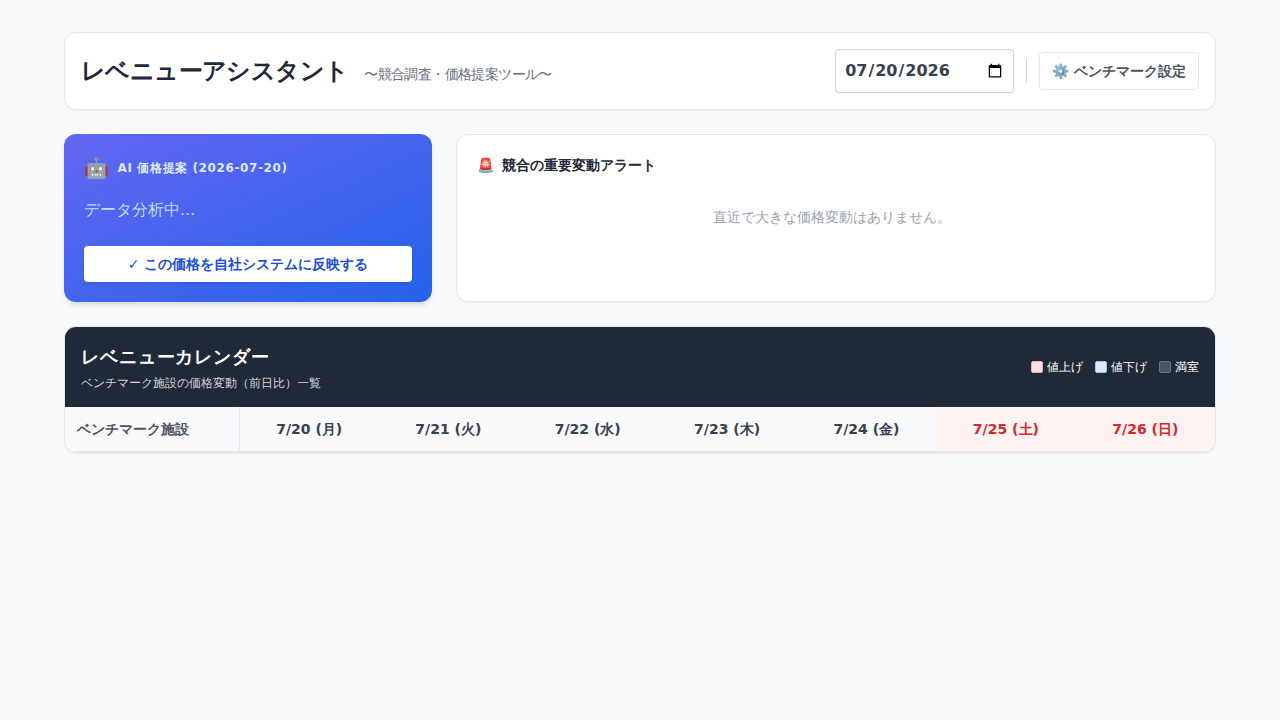
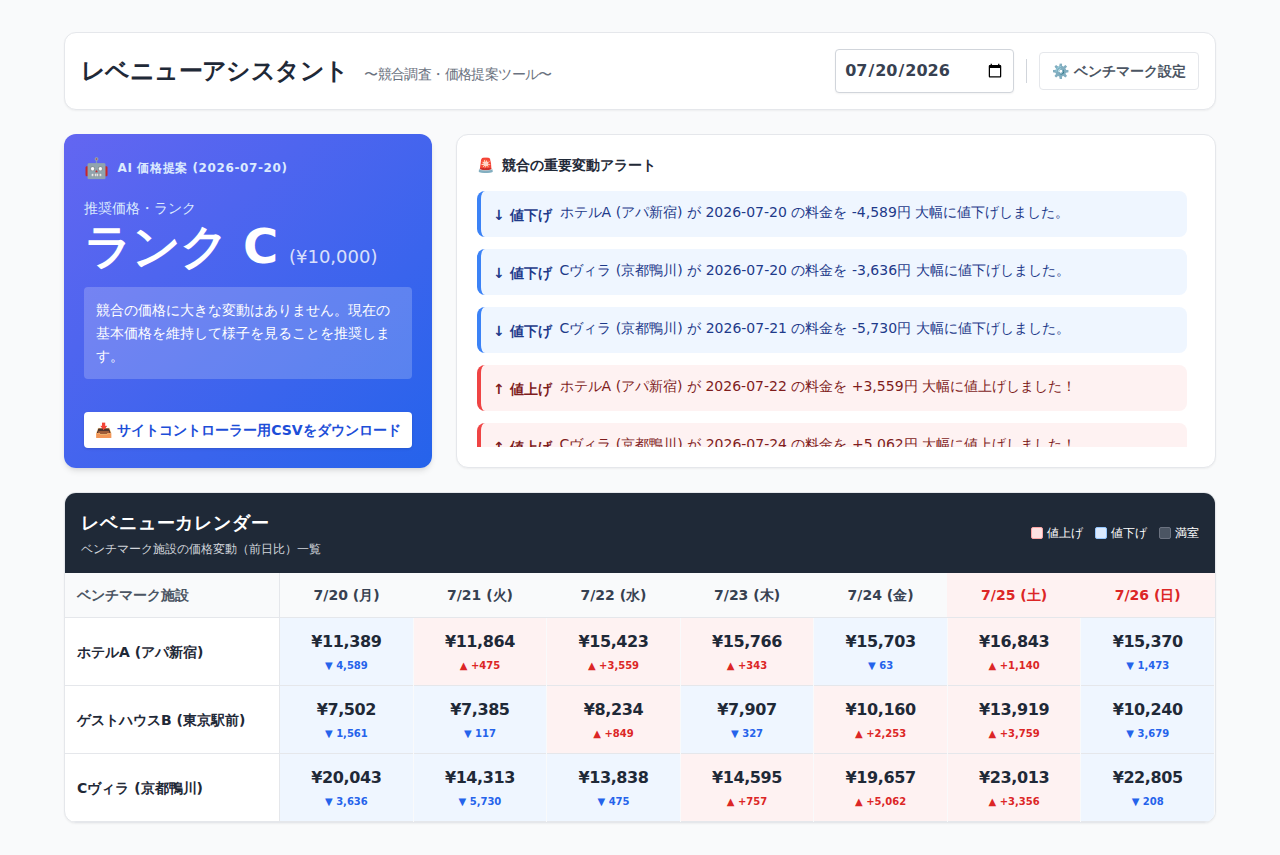
Implement CSV export and guardrails logic

diff --git a/frontend/src/App.tsx b/frontend/src/App.tsx
@@ -28,6 +28,7 @@ interface Alert {
 interface Recommendation {
   date: string;
   suggested_price: number;
+  suggested_rank: string;
   reasoning: string;
 }
 
@@ -45,6 +46,10 @@ function App() {
   const [alerts, setAlerts] = useState<Alert[]>([]);
   const [recommendation, setRecommendation] = useState<Recommendation | null>(null);
   const [dates, setDates] = useState<string[]>([]);
+
+  const handleDownloadCsv = () => {
+    window.open(`${API_BASE}/export_csv?start_date=${selectedDate}&days=7`, '_blank');
+  };
 
   const fetchData = async () => {
     try {
@@ -121,10 +126,15 @@ function App() {
                    </h2>
                    {recommendation ? (
                      <div className="mt-4">
-                       <p className="text-sm text-blue-100 mb-1">今日設定すべき推奨価格</p>
-                       <p className="text-5xl font-extrabold tracking-tight">
-                         <span className="text-2xl font-normal mr-1">¥</span>{recommendation.suggested_price.toLocaleString()}
-                       </p>
+                       <p className="text-sm text-blue-100 mb-1">推奨価格・ランク</p>
+                       <div className="flex items-baseline">
+                         <p className="text-5xl font-extrabold tracking-tight">
+                           ランク {recommendation.suggested_rank}
+                         </p>
+                         <p className="ml-3 text-lg opacity-80">
+                           (¥{recommendation.suggested_price.toLocaleString()})
+                         </p>
+                       </div>
                        <div className="mt-4 bg-white bg-opacity-20 rounded p-3 text-sm leading-relaxed">
                          {recommendation.reasoning}
                        </div>
@@ -133,8 +143,11 @@ function App() {
                      <p className="mt-4 text-blue-200">データ分析中...</p>
                    )}
                 </div>
-                <button className="mt-6 w-full bg-white text-blue-700 font-bold py-2 rounded shadow hover:bg-blue-50 transition-colors text-sm">
-                  ✓ この価格を自社システムに反映する
+                <button
+                  onClick={handleDownloadCsv}
+                  className="mt-6 w-full bg-white text-blue-700 font-bold py-2 rounded shadow hover:bg-blue-50 transition-colors text-sm"
+                >
+                  📥 サイトコントローラー用CSVをダウンロード
                 </button>
               </div>
 

diff --git a/frontend/src/SettingsPanel.tsx b/frontend/src/SettingsPanel.tsx
@@ -44,10 +44,37 @@ export function SettingsPanel({ onClose }: { onClose: () => void }) {
           </div>
         </div>
 
+        {/* Guardrails (Min/Max Price) Settings */}
+        <div>
+          <div className="flex items-center justify-between border-b pb-2 mb-4">
+            <h3 className="font-bold text-gray-700">2. 価格変動リミッター（ガードレール）</h3>
+            <span className="bg-red-100 text-red-800 text-[10px] px-2 py-1 rounded font-bold">必須設定</span>
+          </div>
+          <p className="text-sm text-gray-600 mb-4">
+            AIが極端な値下げや非現実的な値上げを提案しないよう、自社ホテルの価格の「下限」と「上限」を設定します。AIの提案は必ずこの範囲内に収まります。
+          </p>
+          <div className="flex space-x-4">
+            <div className="flex-1">
+              <label htmlFor="min_price" className="block text-xs font-bold text-gray-500 mb-1">最低販売価格（これ以上は下げない）</label>
+              <div className="relative">
+                <span className="absolute left-3 top-2 text-gray-500">¥</span>
+                <input id="min_price" type="number" defaultValue="5000" className="w-full pl-8 p-2 border rounded text-sm focus:ring-2 focus:ring-blue-400 outline-none" />
+              </div>
+            </div>
+            <div className="flex-1">
+              <label htmlFor="max_price" className="block text-xs font-bold text-gray-500 mb-1">最高販売価格（これ以上は上げない）</label>
+              <div className="relative">
+                <span className="absolute left-3 top-2 text-gray-500">¥</span>
+                <input id="max_price" type="number" defaultValue="30000" className="w-full pl-8 p-2 border rounded text-sm focus:ring-2 focus:ring-blue-400 outline-none" />
+              </div>
+            </div>
+          </div>
+        </div>
+
         {/* Notifications Settings */}
         <div>
           <div className="flex items-center justify-between border-b pb-2 mb-4">
-            <h3 className="font-bold text-gray-700">2. 変動アラートの外部通知設定</h3>
+            <h3 className="font-bold text-gray-700">3. 変動アラートの外部通知設定</h3>
             <span className="bg-blue-100 text-blue-800 text-[10px] px-2 py-1 rounded font-bold">推奨機能</span>
           </div>
           <p className="text-sm text-gray-600 mb-4">

diff --git a/backend/main.py b/backend/main.py
@@ -1,6 +1,9 @@
 from fastapi import FastAPI, Depends, HTTPException
+from fastapi.responses import StreamingResponse
 from fastapi.middleware.cors import CORSMiddleware
 from sqlalchemy.orm import Session
+import io
+import csv
 from typing import List
 import datetime
 import random
@@ -167,6 +170,12 @@ def get_alerts(start_date: str, days: int = 7, db: Session = Depends(get_db)):
 
     return alerts
 
+def price_to_rank(price: int) -> str:
+    if price >= 20000: return "A"
+    if price >= 15000: return "B"
+    if price >= 10000: return "C"
+    return "D"
+
 @app.get("/recommendation", response_model=models.MarketRecommendation)
 def get_recommendation(date: str, db: Session = Depends(get_db)):
     comp_data = get_market_data(start_date=date, days=1, db=db)
@@ -174,10 +183,13 @@ def get_recommendation(date: str, db: Session = Depends(get_db)):
 
     available_comps = [c for c in comp_data if not c.is_fully_booked]
     if not available_comps:
+         raw_suggested = int(facility.base_price * 1.5)
+         suggested = min(max(raw_suggested, facility.min_price), facility.max_price)
          return models.MarketRecommendation(
             date=date,
-            suggested_price=int(facility.base_price * 1.5),
-            reasoning="ベンチマーク施設がすべて満室です。強気の価格設定（通常比1.5倍）を推奨します。"
+            suggested_price=suggested,
+            suggested_rank=price_to_rank(suggested),
+            reasoning="ベンチマーク施設がすべて満室です。強気の価格設定を推奨しますが、上限・下限設定（ガードレール）の範囲内に調整しました。"
         )
 
     avg_comp_price = sum(c.price_today for c in available_comps) / len(available_comps)
@@ -185,11 +197,13 @@ def get_recommendation(date: str, db: Session = Depends(get_db)):
     major_increases = [c for c in available_comps if c.difference >= 3000]
 
     if major_increases:
-        suggested = int(avg_comp_price * 0.95)
+        raw_suggested = int(avg_comp_price * 0.95)
+        suggested = min(max(raw_suggested, facility.min_price), facility.max_price)
         names = "、".join([c.competitor_name for c in major_increases])
-        reasoning = f"{names} が大幅に値上げしています。周辺需要が高まっているため、市場平均に近い {suggested:,}円 に引き上げることを推奨します。"
+        reasoning = f"{names} が大幅に値上げしています。市場平均に合わせて上限・下限の範囲内で価格を引き上げることを推奨します。"
     else:
         suggested = int(facility.base_price)
+        suggested = min(max(suggested, facility.min_price), facility.max_price)
         reasoning = "競合の価格に大きな変動はありません。現在の基本価格を維持して様子を見ることを推奨します。"
 
     suggested = round(suggested / 100) * 100
@@ -197,5 +211,27 @@ def get_recommendation(date: str, db: Session = Depends(get_db)):
     return models.MarketRecommendation(
         date=date,
         suggested_price=suggested,
+        suggested_rank=price_to_rank(suggested),
         reasoning=reasoning
+    )
+
+@app.get("/export_csv")
+def export_csv(start_date: str, days: int = 7, db: Session = Depends(get_db)):
+    start = datetime.datetime.strptime(start_date, "%Y-%m-%d").date()
+
+    output = io.StringIO()
+    writer = csv.writer(output)
+    # PMS/Site Controller typical CSV format (Date, Rank)
+    writer.writerow(["Date", "Recommended_Rank", "Recommended_Price"])
+
+    for i in range(days):
+        current_date_str = (start + datetime.timedelta(days=i)).strftime("%Y-%m-%d")
+        rec = get_recommendation(current_date_str, db)
+        writer.writerow([rec.date, rec.suggested_rank, rec.suggested_price])
+
+    output.seek(0)
+    return StreamingResponse(
+        iter([output.getvalue()]),
+        media_type="text/csv",
+        headers={"Content-Disposition": f"attachment; filename=revenue_ranks_{start_date}.csv"}
     )

diff --git a/backend/models.py b/backend/models.py
@@ -11,6 +11,8 @@ class DBFacility(Base):
     id = Column(Integer, primary_key=True, index=True)
     name = Column(String, index=True)
     base_price = Column(Integer)
+    min_price = Column(Integer, default=5000)
+    max_price = Column(Integer, default=30000)
 
 class DBCompetitor(Base):
     __tablename__ = "competitors"
@@ -35,6 +37,8 @@ class Facility(BaseModel):
     id: int
     name: str
     base_price: int
+    min_price: int = 5000
+    max_price: int = 30000
     class Config:
         orm_mode = True
 
@@ -63,4 +67,5 @@ class Alert(BaseModel):
 class MarketRecommendation(BaseModel):
     date: str
     suggested_price: int
+    suggested_rank: str
     reasoning: str
